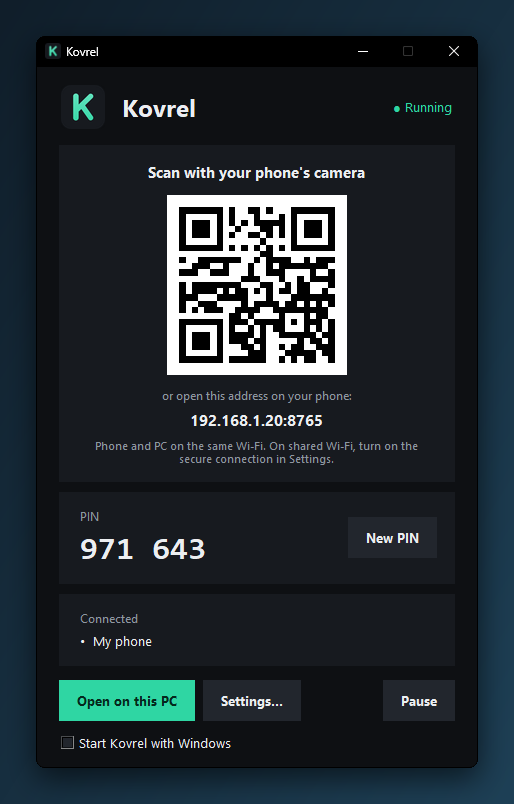
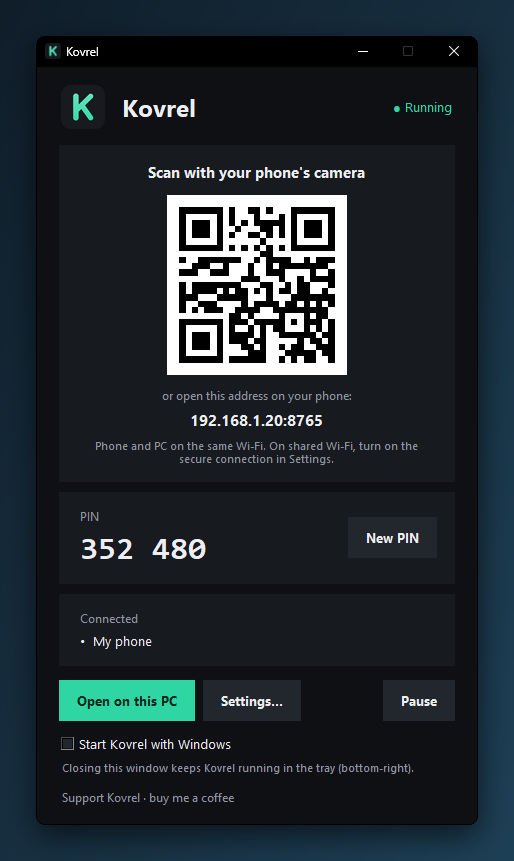
Support link on the PC and phone apps; Install Tailscale button on Away
- PC window: a quiet "Support Kovrel · buy me a coffee" link at the bottom
  (opens buymeacoffee.com/nyxaliths only when clicked)
- Phone page: the same link under the version on the Settings page
- PC window, Away: when Tailscale isn't installed the main page now says so and
  shows an "Install Tailscale" button (it was only in Settings > Remote); a
  short "Checking Tailscale..." state avoids offering it before the first check
- The window now fits its content, so the Away switch, the install button and
  the new link are never cut off
- gui_test covers the link and the Away states and runs next to a running
  Kovrel; page_check allows the support link
- PRIVACY: lists the two links, which only open when clicked
- refreshed the PC window screenshots

diff --git a/web/index.html b/web/index.html
@@ -134,6 +134,8 @@ textarea { min-height: 96px; resize: vertical; }
    so the controls below never move. */
 .viewer img, .viewer canvas { display: block; width: calc(var(--zoom, 1) * 100%); height: calc(var(--zoom, 1) * 100%); object-fit: contain; user-select: none;
   -webkit-user-drag: none; -webkit-touch-callout: none; cursor: pointer; }
+a.support { color: var(--muted-fg); font-size: 13px; text-decoration: underline; text-underline-offset: 3px; }
+a.support:active { color: var(--primary); }
 .viewer-msg { position: absolute; inset: 0; display: grid; place-items: center; text-align: center; padding: 20px; color: #B9C0C9; font-size: 15px; pointer-events: none; }
 .badge { position: sticky; float: right; top: 8px; margin: 8px 8px -30px 0; z-index: 2; pointer-events: none;
   font-size: 12px; font-weight: 600; color: #fff; background: rgba(0,0,0,.55); border-radius: 999px; padding: 3px 9px; font-variant-numeric: tabular-nums; }
@@ -760,6 +762,7 @@ dialog form { display: flex; flex-direction: column; gap: 14px; }
       </div>
       <button class="btn danger" id="logout"><svg class="icon"><use href="#i-logout"/></svg>Sign out of this device</button>
       <p class="muted" style="text-align:center" id="verText">Kovrel</p>
+      <p class="muted" style="text-align:center"><a class="support" href="https://buymeacoffee.com/nyxaliths" target="_blank" rel="noopener noreferrer">Support Kovrel · buy me a coffee</a></p>
     </section>
   </main>
 

diff --git a/tests/gui_test.py b/tests/gui_test.py
@@ -1,5 +1,5 @@
 """Runs the real Kovrel app UI against a throwaway APPDATA, clicks through it and screenshots each window."""
-import ctypes, ctypes.wintypes as wt, http.client, importlib.machinery, importlib.util, json, os, ssl, sys, tempfile, threading, time
+import ctypes, ctypes.wintypes as wt, http.client, json, os, ssl, sys, tempfile, threading, time
 ROOT = os.path.dirname(os.path.dirname(os.path.abspath(__file__)))
 from pathlib import Path
 from PIL import Image
@@ -16,9 +16,12 @@ RES = open(OUT / "results.txt", "w", encoding="utf-8")
 print("RESULTS " + str(OUT / "results.txt"), flush=True)   # before the app takes over stdout
 def say(text): RES.write(text + "\n"); RES.flush()
 sys.path.insert(0, str(APP))
-loader = importlib.machinery.SourceFileLoader("kovrel_app", str(APP / "Kovrel.pyw"))
-spec = importlib.util.spec_from_loader("kovrel_app", loader)
-mod = importlib.util.module_from_spec(spec); loader.exec_module(mod)
+# Load Kovrel.pyw under its own single-instance name: otherwise a Kovrel that is already running on this PC
+# would be asked to show its window and this test would exit before it starts.
+import types
+src = (APP / "Kovrel.pyw").read_text("utf-8-sig").replace("Local\\\\Kovrel_show", "Local\\\\Kovrel_gui_test_show")
+mod = types.ModuleType("kovrel_app"); mod.__file__ = str(APP / "Kovrel.pyw")
+exec(compile(src, str(APP / "Kovrel.pyw"), "exec"), mod.__dict__)
 security, server = mod.security, mod.server
 mod.messagebox.askokcancel = lambda *a, **k: True      # auto-answer confirmation boxes
 mod.messagebox.askyesno = lambda *a, **k: True
@@ -81,6 +84,24 @@ def scenario():
     time.sleep(1.5)
     on_tk(lambda: shot(app.root, "1_main.png"))
     check("server running, address shown", app.error is None and app.url.startswith("http://") and app.url.endswith(":8793"))
+    check("main window has the quiet support link", app.support_lbl.cget("text").startswith("Support Kovrel") and mod.SUPPORT_URL == "https://buymeacoffee.com/nyxaliths")
+    # --- "Away" while Tailscale isn't installed: the main page offers to install it
+    def away(ts):
+        security.put("remote", True)
+        app.ts = ts
+        app.set_qr_mode("away"); app.root.update()
+        return app.ts_btn.winfo_ismapped(), app.secure_lbl.cget("text")
+    none = {"installed": False, "running": False, "ip": "", "name": "", "cert_domains": [], "error": ""}
+    mapped, text = on_tk(lambda: away(dict(none, checking=True)))
+    check("Away: no install offer while Tailscale is still being checked", not mapped and "Checking" in text, text)
+    mapped, text = on_tk(lambda: away(none))
+    check("Away without Tailscale: Install Tailscale button on the main page", mapped and "needs Tailscale" in text, text)
+    on_tk(lambda: shot(app.root, "1b_main_away_no_tailscale.png"))
+    mapped, text = on_tk(lambda: away(dict(none, installed=True)))
+    check("Away with Tailscale installed but off: no install button, says to sign in", not mapped and "not connected" in text, text)
+    def back_home():
+        security.put("remote", False); app.set_qr_mode("home"); app.refresh(); app.root.update()
+    on_tk(back_home)
     pin = security.current_pin()
     # --- a new phone logs in -> approval pop-up
     s, d = hreq("http", "POST", "/api/login", {"secret": pin, "device": "gui-device-0001", "name": "Jo's iPhone"})

diff --git a/tests/page_check.py b/tests/page_check.py
@@ -26,6 +26,6 @@ check("every #id the script uses exists in the page", used <= ids, ", ".join(sor
 dupes = sorted({i for i in re.findall(r'id="([^"]+)"', html) if re.findall(rf'id="{re.escape(i)}"', html).__len__() > 1})
 check("no duplicate ids", not dupes, ", ".join(dupes))
 remote = re.findall(r'(?:src|href)="(https?://[^"]+)"', html)
-check("nothing is loaded from the internet (links people tap are fine)", all("github.com" in u for u in remote), ", ".join(remote))
+check("nothing is loaded from the internet (links people tap are fine)", all("github.com" in u or u.startswith("https://buymeacoffee.com/nyxaliths") for u in remote), ", ".join(remote))
 print("\nRESULT:", f"{len(bad)} FAILED: {bad}" if bad else "all passed")
 sys.exit(1 if bad else 0)

diff --git a/PRIVACY.md b/PRIVACY.md
@@ -15,6 +15,9 @@ sent to the people who make Kovrel, because there is nowhere to send it.
   **Settings › Access › Updates**), when you ask it to get a Tailscale certificate (that goes through the
   Tailscale app on your PC), and when a button or macro you made opens a website.
 - Updates never install by themselves: Kovrel only shows "update available" and opens the release page.
+- Two small links open in your browser only when you click them: **Support Kovrel** (buymeacoffee.com) on the
+  PC window and on the phone's Settings page, and **Install Tailscale** (tailscale.com) on the PC window when
+  you pick **Away** and Tailscale isn't installed. Kovrel itself sends nothing to those sites.
 - Tailscale is a separate service with its own privacy policy. Kovrel only asks the Tailscale app on your
   PC for its status and, if you click **Get certificate**, for a certificate.
 
